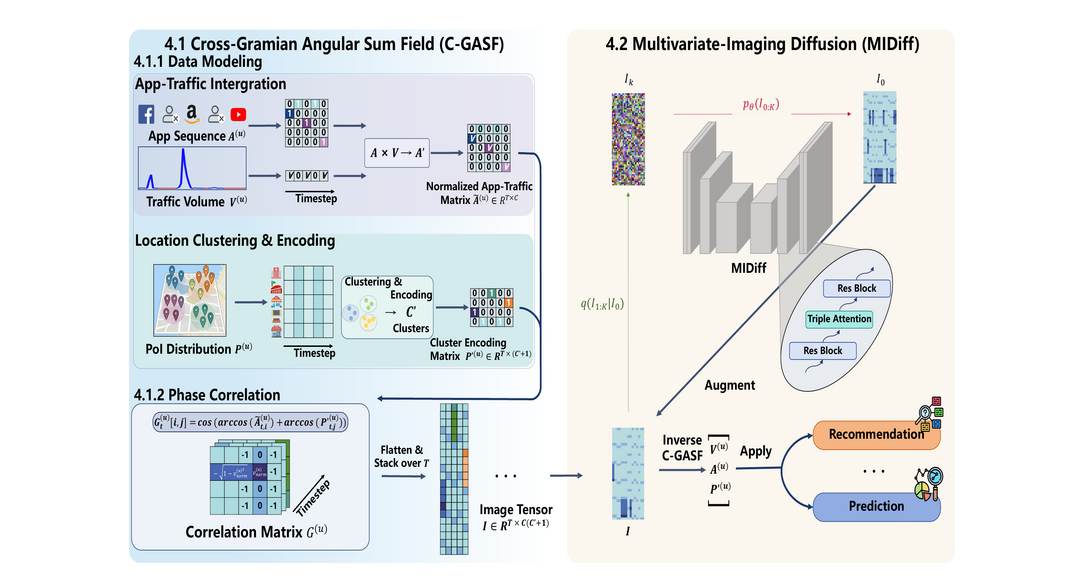
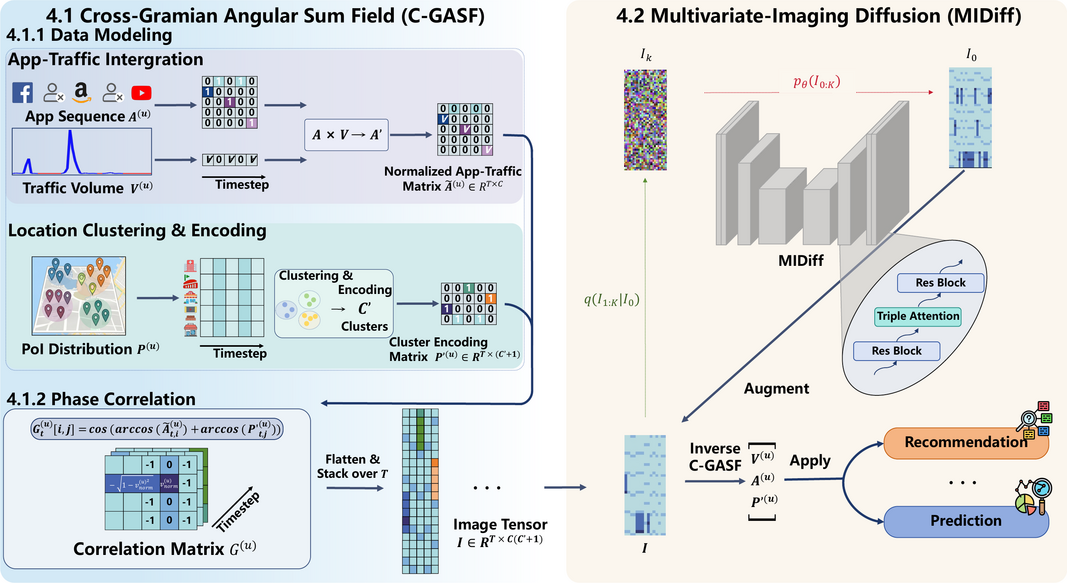
Fix publication figures on research page

diff --git a/_includes/archive-single.html b/_includes/archive-single.html
@@ -18,8 +18,8 @@
     <div class="publication-entry">
       {% if teaser %}
       <div class="publication-entry__image">
-        {% capture teaser_src %}{% if teaser contains "://" %}{{ teaser }}{% else %}{{ teaser | prepend: "/images/" | prepend: base_path }}{% endif %}{% endcapture %}
-        <img src="{{ teaser_src | strip }}" alt="{{ title }}">
+        {% capture teaser_src %}{% if teaser contains "://" %}{{ teaser }}{% else %}{{ teaser | prepend: "/images/" }}{% endif %}{% endcapture %}
+        <img src="{{ teaser_src | strip }}" alt="{{ title | strip }}">
       </div>
       {% endif %}
       <div class="publication-entry__content">
